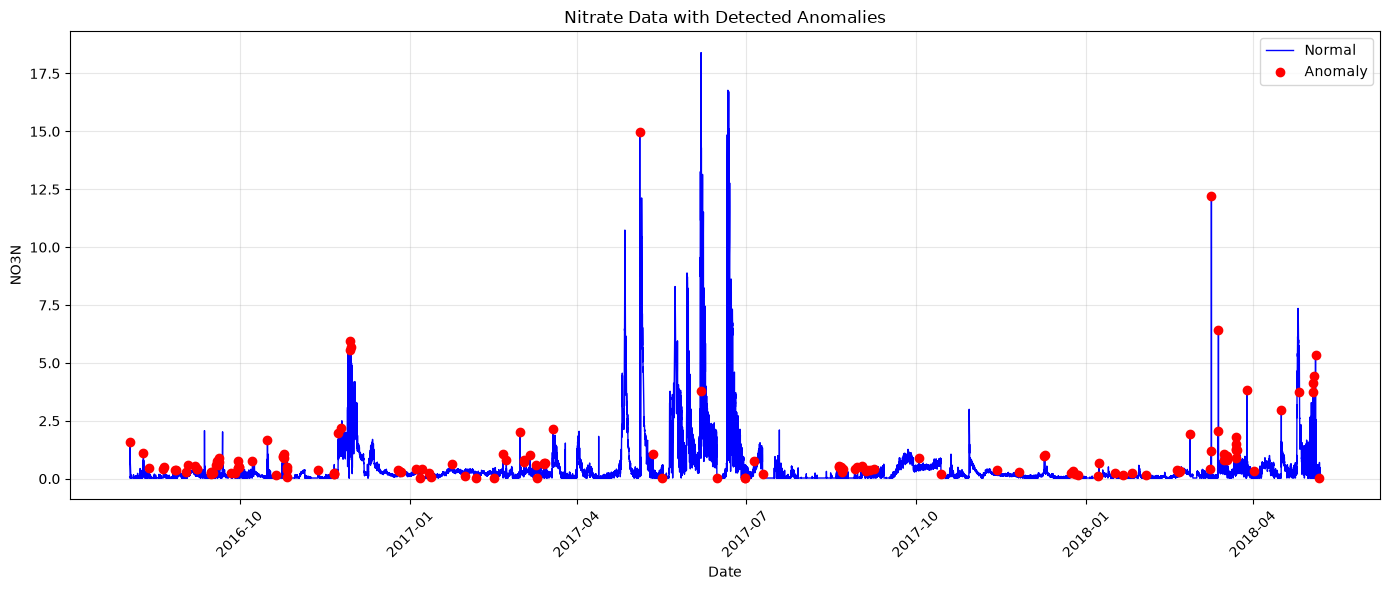
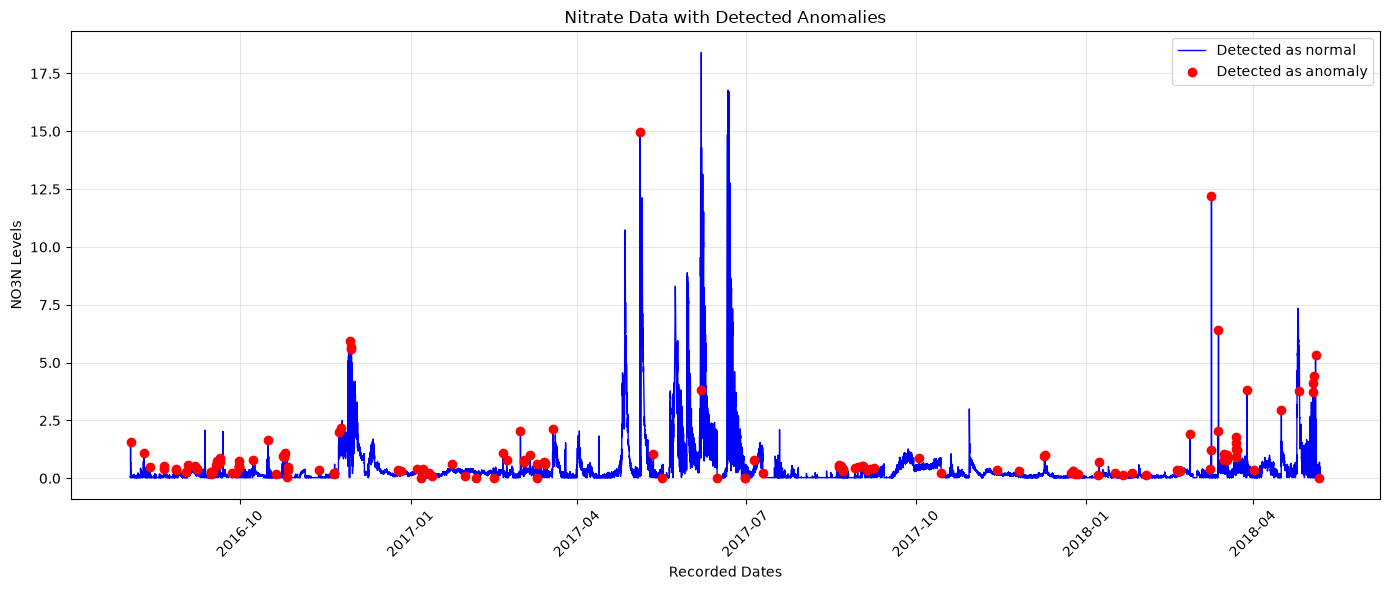
reformated scatter plot, completed README

diff --git a/README.md b/README.md
@@ -2,13 +2,27 @@
 
 ## Scatter plot
 
-Below is an scatter plot of the provided CSV file. 
+Below is an scatter plot of the provided CSV file. Red dots are anomolgies while blue are normal observations. 
 
 
 ![alt text](image.png)
 
 ## Choosing W and q
 
+- **Window Size ($W = 100$):** 
+  Records were taken twice every hour (30-minute intervals). Choosing $W = 100$ sets a rolling window of ~50 hours (roughly 2 days). Two days is an optimal size to adapt to localized weather events and short-term runoff shifts without lagging behind long-term seasonal trends.
+
+- **Percentile Threshold ($q = 90$):** 
+  Coupled with a 50-hour window size, taking the upper 90th percentile of each window maintains high sensitivity to detect high-concentration runoff spikes.
+
 ## Normal accuracy and Anomaly accuracy
 
+- **TP:** 122 | **FN:** 19
+- **TN:** 24,830 | **FP:** 5,819
+- **Normal Point Accuracy:** 81.01% 
+- **Anomaly Point Accuracy:** 86.52% 
 
+## Design Choice
+
+- **Point-Level Evaluation:** 
+  To keep comparsion simple, I did a direct array-to-array comparison between my predictions and the ground truth (df["Student_Flag"]) and evalued all predictions with the corresponding student observation. 
